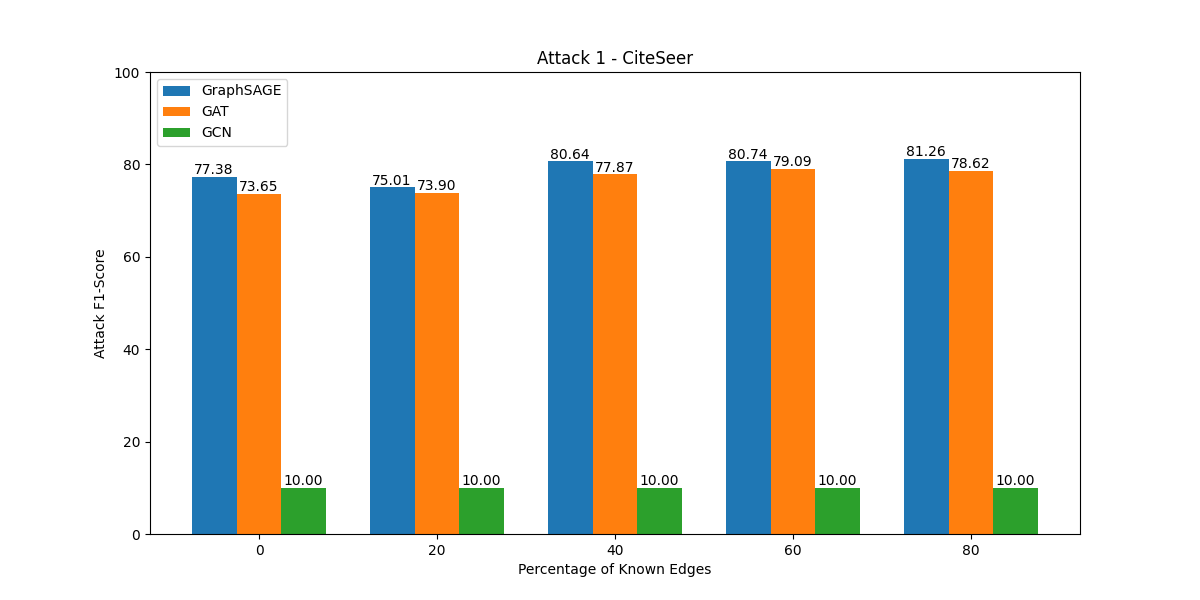
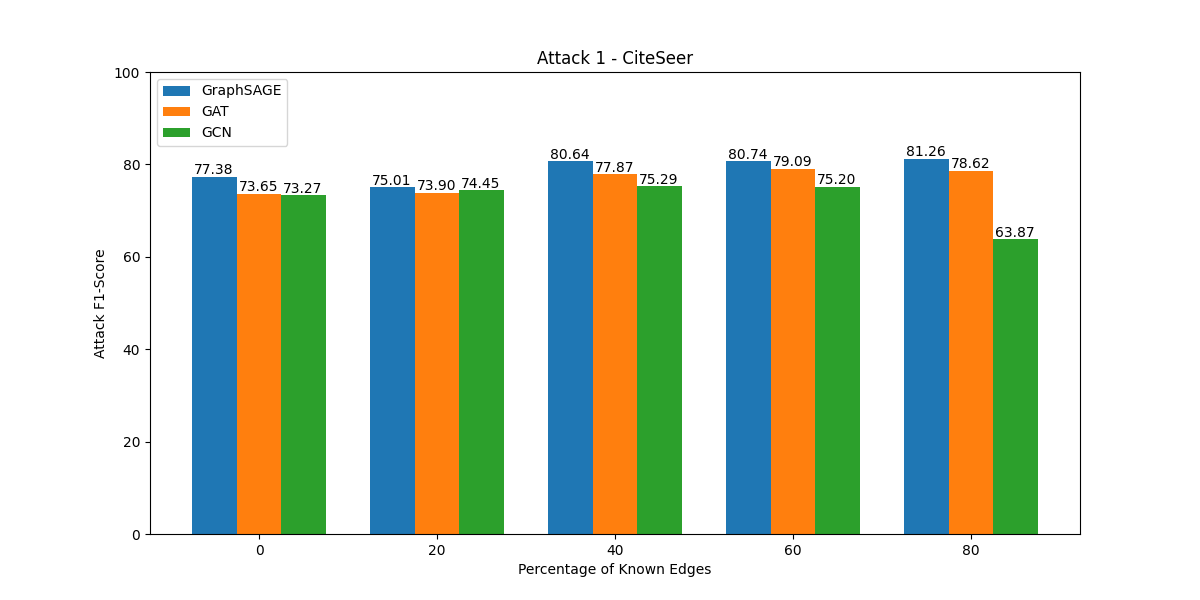
gcn citeseer

diff --git a/Experiment/results/plot.py b/Experiment/results/plot.py
@@ -45,7 +45,7 @@ def a1_citeseer():
 
     graphsage = [77.38, 75.01, 80.64, 80.74, 81.26]
     gat = [73.65, 73.90, 77.87, 79.09, 78.62]
-    gcn = [10.00, 10.00, 10.00, 10.00, 10.00]
+    gcn = [73.27, 74.45, 75.29, 75.20, 63.87]
 
     X_axis = np.arange(len(bartypes))
 
@@ -157,7 +157,7 @@ def a2_citeseer():
 
     graphsage = [78.94, 81.69, 82.85, 84.80, 89.07]
     gat = [78.06, 82.36, 82.93, 87.46, 87.92]
-    gcn = [10.00, 10.00, 10.00, 10.00, 10.00]
+    gcn = [71.27, 75.62, 74.45, 74.49, 80.00]
 
     X_axis = np.arange(len(bartypes))
 
